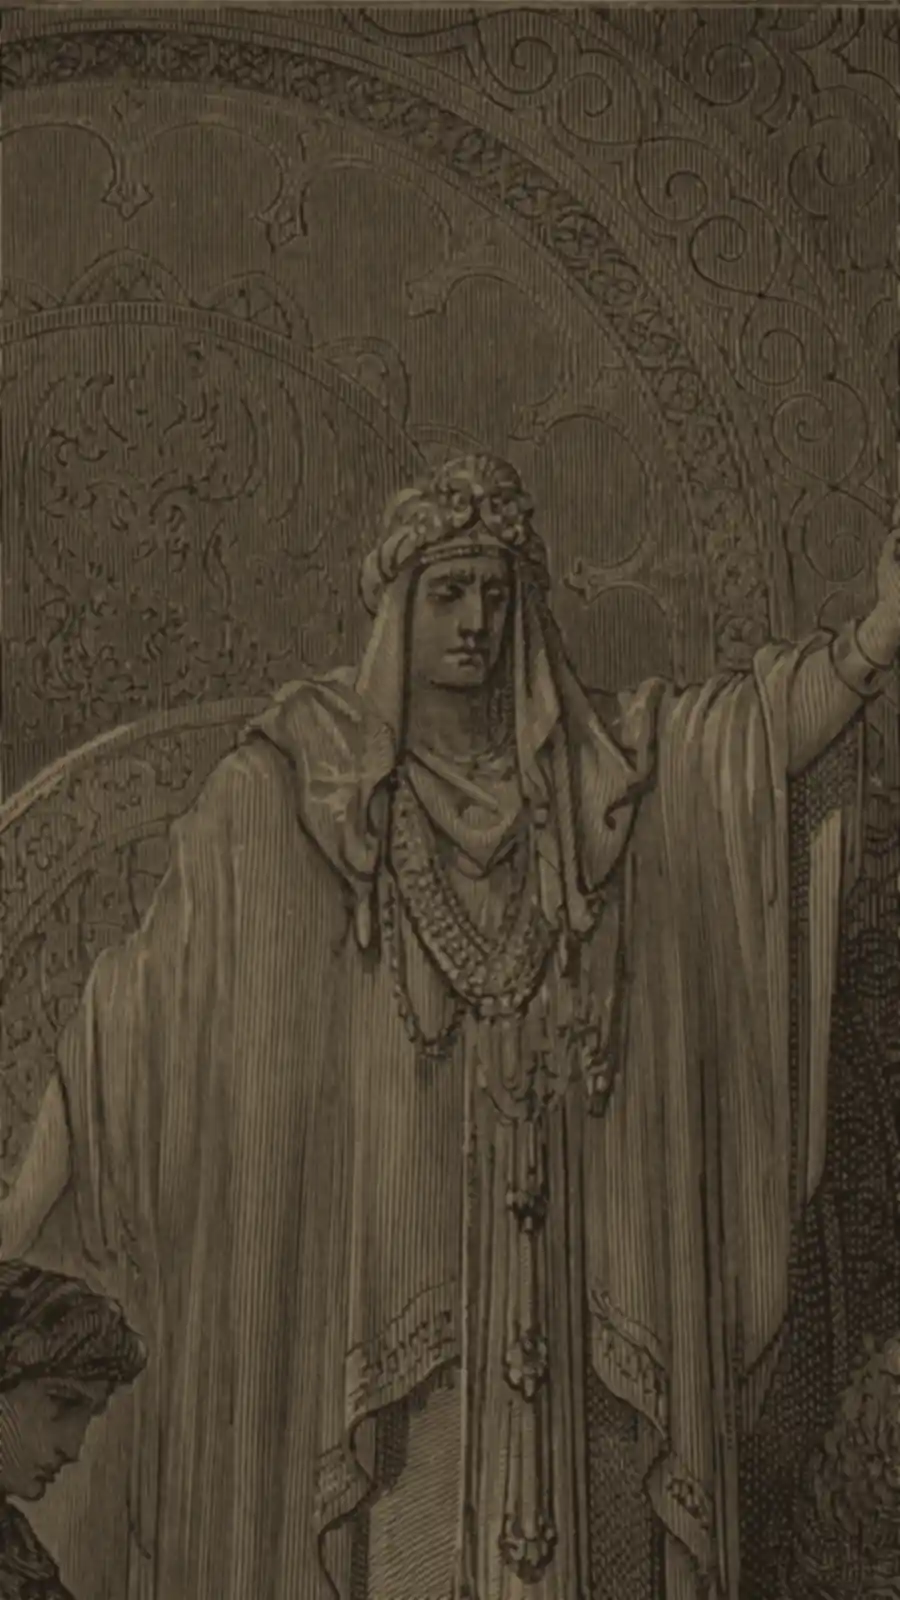
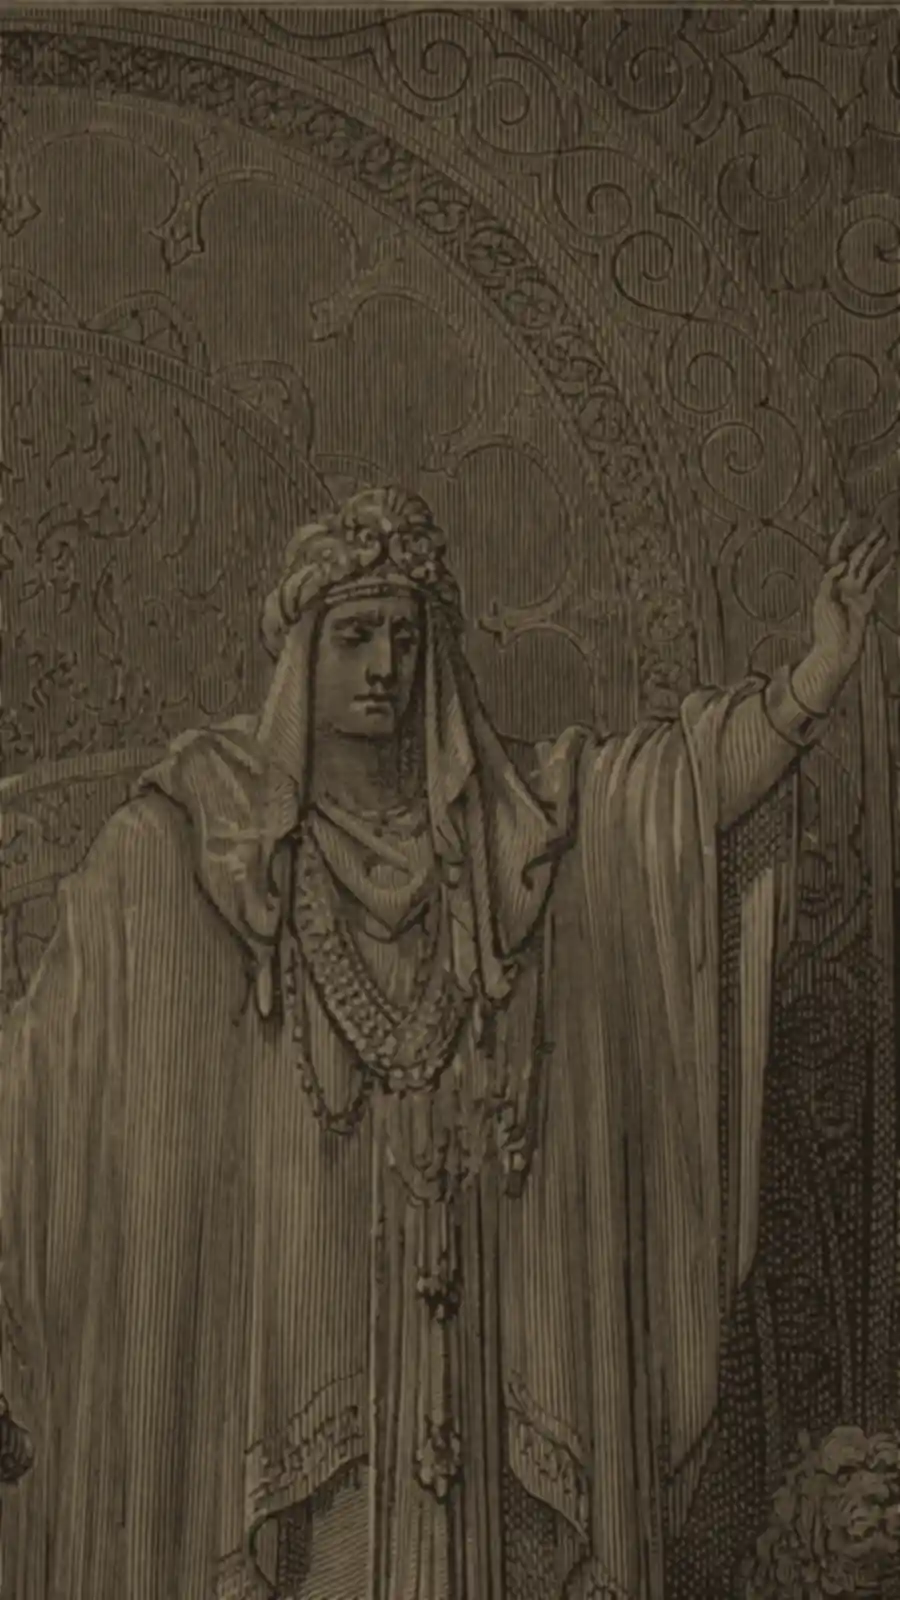
fix(art): desk 1600/900 crops keep every head in frame (Solomon only; no sword or child)

diff --git a/public/art/ATTRIBUTION.md b/public/art/ATTRIBUTION.md
@@ -69,7 +69,7 @@ fails if any screen at 1600, 1920 or 2560 shows the same file or panel twice, or
 | Find | Bauer, *Princess Tuvstarr*: Tuvstarr at the tarn | the same work: the trees at the far left of the scene | `plate-find-A-2400.webp` |
 | Messages | Dürer, *Praying Hands*, 1508 | Dürer, *Erasmus of Rotterdam*, 1526 | `plate-messages-A-2400.webp` |
 | You | Dürer, *Self-Portrait at Thirteen*, 1484 | Dürer, *Self-Portrait*, 1500 (Alte Pinakothek), https://commons.wikimedia.org/wiki/File:Albrecht_D%C3%BCrer_-_1500_self-portrait_(High_resolution_and_detail).jpg, public domain (artist died 1528) | `plate-you-A-2400.webp` |
-| The desk | Doré, *The Judgment of Solomon*: Solomon on the throne | the same plate: the seated elders, far left of the scene; no sword or child | `plate-desk-A-2400.webp` |
+| The desk | Doré, *The Judgment of Solomon*: Solomon on the throne | the same plate: the elders at the far left of the scene; no sword or child | `plate-desk-A-2400.webp` |
 | More / About | Martin, *The Creation of Light* (`martin-hero-A.webp`, already 2400 wide): the left of the plate | its right half | no new file |
 
 Rejected: the MFAH photograph of Martin's *Adam and Eve, the Morning Hymn* is CC BY-SA 4.0, not public domain or CC0. None of Martin's destruction scenes are used.
